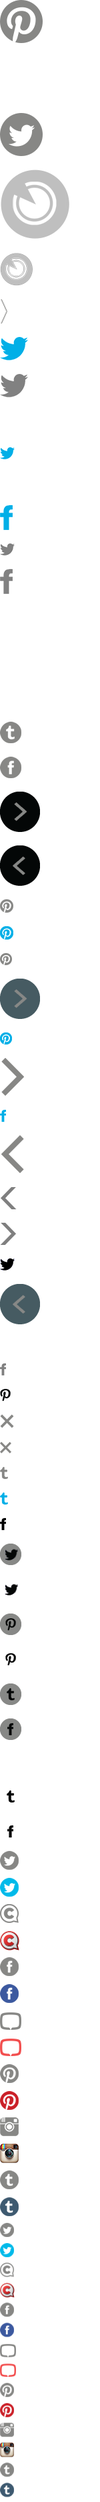
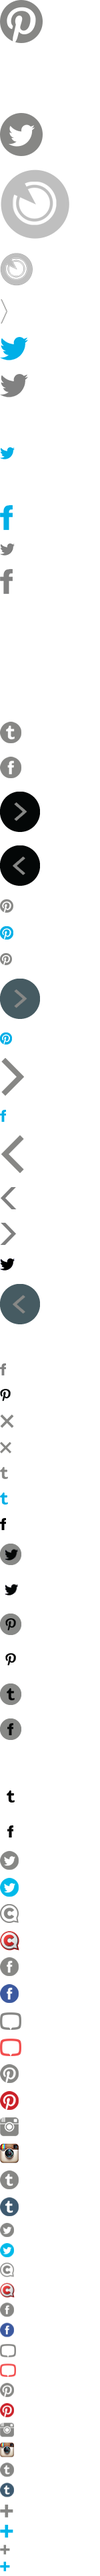
#466 add 'plus' share button to share all networks

Changed region(s): [[0.0, 0.2806, 0.4, 1.0], [0.0, 0.0312, 0.6933, 0.2495]]

diff --git a/themes/aurora_usa/stylesheets/style.css b/themes/aurora_usa/stylesheets/style.css
@@ -10827,60 +10827,90 @@ input.echo-submit-text {
   }
 }
 .field-name-field-gigya-share-bar .gig-button-container.gig-button-container-facebook td > div {
-  background-position: 0 -2910px !important;
+  background-position: 1px -2908px !important;
 }
 .field-name-field-gigya-share-bar .gig-button-container.gig-button-container-facebook td > div:hover {
-  background-position: 0 -2950px !important;
+  background-position: 1px -2948px !important;
 }
 @media (max-width: 644px) {
   .field-name-field-gigya-share-bar .gig-button-container.gig-button-container-facebook td > div {
-    background-position: 0 -3423px !important;
+    background-position: 1px -3422px !important;
   }
   .field-name-field-gigya-share-bar .gig-button-container.gig-button-container-facebook td > div:hover {
-    background-position: 0 -3453px !important;
+    background-position: 1px -3452px !important;
   }
 }
 .field-name-field-gigya-share-bar .gig-button-container.gig-button-container-twitter td > div {
-  background-position: 0 -2752px !important;
+  background-position: 1px -2750px !important;
 }
 .field-name-field-gigya-share-bar .gig-button-container.gig-button-container-twitter td > div:hover {
-  background-position: 0 -2792px !important;
+  background-position: 1px -2790px !important;
 }
 @media (max-width: 644px) {
   .field-name-field-gigya-share-bar .gig-button-container.gig-button-container-twitter td > div {
-    background-position: 0 -3305px !important;
+    background-position: 1px -3304px !important;
   }
   .field-name-field-gigya-share-bar .gig-button-container.gig-button-container-twitter td > div:hover {
-    background-position: 0 -3335px !important;
+    background-position: 1px -3334px !important;
   }
 }
 .field-name-field-gigya-share-bar .gig-button-container.gig-button-container-tumblr td > div {
-  background-position: 0 -3227px !important;
+  background-position: 1px -3225px !important;
 }
 .field-name-field-gigya-share-bar .gig-button-container.gig-button-container-tumblr td > div:hover {
-  background-position: 0 -3267px !important;
+  background-position: 1px -3265px !important;
 }
 @media (max-width: 644px) {
   .field-name-field-gigya-share-bar .gig-button-container.gig-button-container-tumblr td > div {
-    background-position: 0 -3661px !important;
+    background-position: 1px -3660px !important;
   }
   .field-name-field-gigya-share-bar .gig-button-container.gig-button-container-tumblr td > div:hover {
-    background-position: 0 -3691px !important;
+    background-position: 1px -3690px !important;
   }
 }
 .field-name-field-gigya-share-bar .gig-button-container.gig-button-container-pinterest td > div {
-  background-position: 0 -3069px !important;
+  background-position: 1px -3067px !important;
 }
 .field-name-field-gigya-share-bar .gig-button-container.gig-button-container-pinterest td > div:hover {
-  background-position: 0 -3109px !important;
+  background-position: 1px -3107px !important;
 }
 @media (max-width: 644px) {
   .field-name-field-gigya-share-bar .gig-button-container.gig-button-container-pinterest td > div {
-    background-position: 0 -3543px !important;
+    background-position: 1px -3542px !important;
   }
   .field-name-field-gigya-share-bar .gig-button-container.gig-button-container-pinterest td > div:hover {
-    background-position: 0 -3573px !important;
+    background-position: 1px -3572px !important;
   }
+}
+.field-name-field-gigya-share-bar .gig-button-container.gig-button-container-share td > div {
+  background-position: 5px -3717px !important;
+}
+.field-name-field-gigya-share-bar .gig-button-container.gig-button-container-share td > div:hover {
+  background-position: 5px -3747px !important;
+}
+@media (max-width: 644px) {
+  .field-name-field-gigya-share-bar .gig-button-container.gig-button-container-share td > div {
+    background-position: 4px -3779px !important;
+  }
+  .field-name-field-gigya-share-bar .gig-button-container.gig-button-container-share td > div:hover {
+    background-position: 4px -3804px !important;
+  }
+}
+
+body div.gig-simpleShareUI {
+  border-color: #414141;
+}
+body div.gig-simpleShareUI div.gig-simpleShareUI-inner {
+  background-color: #2D2D2D;
+  border-color: #000;
+}
+body div.gig-simpleShareUI div.gig-simpleShareUI-inner .gig-simpleShareUI-caption {
+  border-bottom: 1px solid #000;
+}
+body div.gig-simpleShareUI div.gig-simpleShareUI-inner .gig-simpleShareUI-caption,
+body div.gig-simpleShareUI div.gig-simpleShareUI-inner .gig-simpleShareUI-caption-text {
+  background-color: #1C1C1C;
+  color: #A7A6A6;
 }
 
 .schedule-header {

diff --git a/themes/aurora_usa/sass/design/modules/_social.scss b/themes/aurora_usa/sass/design/modules/_social.scss
@@ -1296,14 +1296,14 @@ input.echo-submit-text {
     &.gig-button-container-facebook {
       td {
         > div {
-          background-position: 0 -2910px !important;
+          background-position: 1px -2908px !important;
           &:hover {
-            background-position: 0 -2950px !important;
+            background-position: 1px -2948px !important;
           }
           @include breakpoint($bp-home-narrowest) {
-            background-position: 0 -3423px !important;
+            background-position: 1px -3422px !important;
             &:hover {
-              background-position: 0 -3453px !important;
+              background-position: 1px -3452px !important;
             }
           }
         }
@@ -1312,14 +1312,14 @@ input.echo-submit-text {
     &.gig-button-container-twitter {
       td {
         > div {
-          background-position: 0 -2752px !important;
+          background-position: 1px -2750px !important;
           &:hover {
-            background-position: 0 -2792px !important;
+            background-position: 1px -2790px !important;
           }
           @include breakpoint($bp-home-narrowest) {
-            background-position: 0 -3305px !important;
+            background-position: 1px -3304px !important;
             &:hover {
-              background-position: 0 -3335px !important;
+              background-position: 1px -3334px !important;
             }
           }
         }
@@ -1328,14 +1328,14 @@ input.echo-submit-text {
     &.gig-button-container-tumblr {
       td {
         > div {
-          background-position: 0 -3227px !important;
+          background-position: 1px -3225px !important;
           &:hover {
-            background-position: 0 -3267px !important;
+            background-position: 1px -3265px !important;
           }
           @include breakpoint($bp-home-narrowest) {
-            background-position: 0 -3661px !important;
+            background-position: 1px -3660px !important;
             &:hover {
-              background-position: 0 -3691px !important;
+              background-position: 1px -3690px !important;
             }
           }
         }
@@ -1344,17 +1344,51 @@ input.echo-submit-text {
     &.gig-button-container-pinterest {
       td {
         > div {
-          background-position: 0 -3069px !important;
+          background-position: 1px -3067px !important;
           &:hover {
-            background-position: 0 -3109px !important;
+            background-position: 1px -3107px !important;
           }
           @include breakpoint($bp-home-narrowest) {
-            background-position: 0 -3543px !important;
+            background-position: 1px -3542px !important;
             &:hover {
-              background-position: 0 -3573px !important;
+              background-position: 1px -3572px !important;
             }
           }
         }
+      }
+    }
+    &.gig-button-container-share {
+      td {
+        > div {
+          background-position: 5px -3717px !important;
+          &:hover {
+            background-position: 5px -3747px !important;
+          }
+          @include breakpoint($bp-home-narrowest) {
+            background-position: 4px -3779px !important;
+            &:hover {
+              background-position: 4px -3804px !important;
+            }
+          }
+        }
+      }
+    }
+  }
+}
+
+body {
+  div.gig-simpleShareUI {
+    border-color: #414141;
+    div.gig-simpleShareUI-inner {
+      background-color: #2D2D2D;
+      border-color: #000;
+      .gig-simpleShareUI-caption {
+        border-bottom: 1px solid #000;
+      }
+      .gig-simpleShareUI-caption,
+      .gig-simpleShareUI-caption-text {
+        background-color: #1C1C1C;
+        color: #A7A6A6;
       }
     }
   }

diff --git a/themes/aurora_usa/javascripts/flexslider-gallery.js b/themes/aurora_usa/javascripts/flexslider-gallery.js
@@ -2,12 +2,12 @@
 (function ($) {
   Drupal.behaviors.flexslidergallery = {
     attach: function (context, settings) {
-      $('.media-gallery').once('mediagallery', function() {
+      $('.node-type-media-gallery').once('mediagallery', function() {
         $slideshow_selector = $('.field-name-field-media-items');
         $counter_selector = $('.media-gallery .navigation-counter').append('<div class="counter"></div>').find('.counter');
         
         //hot-fix wrap gallery
-        $('.media-gallery .pane-node-field-media-items').after('<div class="wrap-gallery-right"></div>');
+        /*$('.media-gallery .pane-node-field-media-items').after('<div class="wrap-gallery-right"></div>');
         $('.media-gallery .pane-node-title').appendTo('.media-gallery .wrap-gallery-right');
         $('.media-gallery .pane-node-field-season').appendTo('.media-gallery .wrap-gallery-right');
         $('.media-gallery .pane-node-field-episode').appendTo('.media-gallery .wrap-gallery-right');
@@ -22,7 +22,7 @@
         $('.media-gallery .pane-node-field-episode').appendTo('.media-gallery .wrap-gallery-caption');
         $('.media-gallery .image-caption').appendTo('.media-gallery .wrap-gallery-caption');
         $('.media-gallery .pane-node-field-gigya-share-bar').appendTo('.media-gallery .wrap-gallery-caption');
-        $('.media-gallery .navigation-counter').appendTo('.media-gallery .wrap-gallery-caption');
+        $('.media-gallery .navigation-counter').appendTo('.media-gallery .wrap-gallery-caption');*/
         
         $count = $slideshow_selector.find('li').length;
         var $current = 0;
